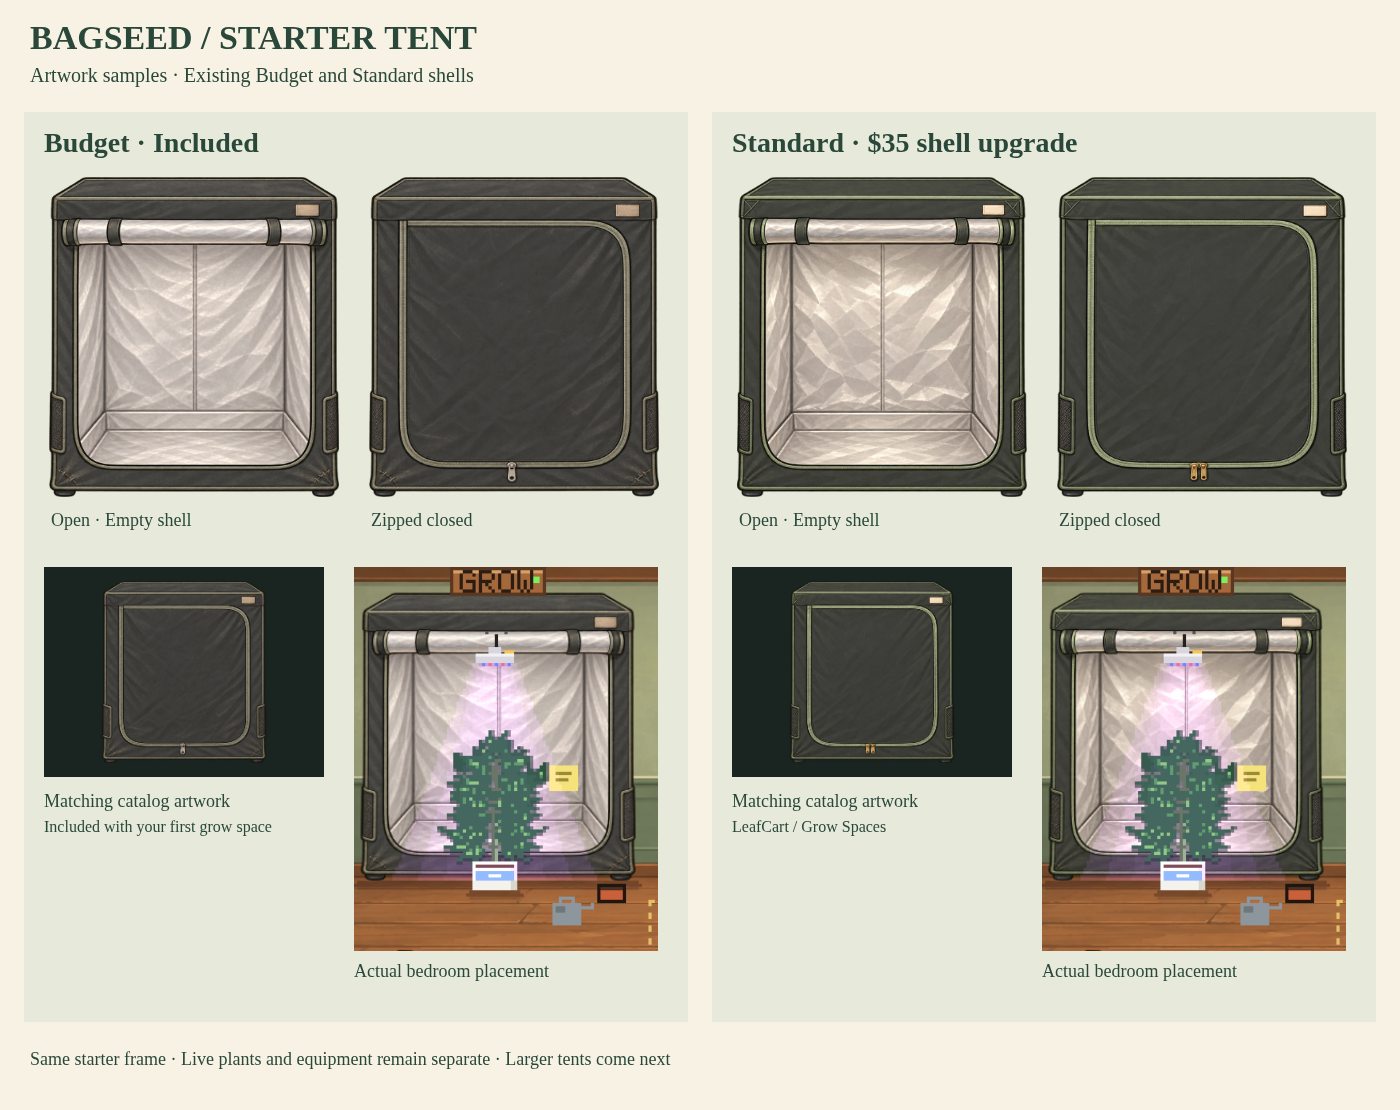
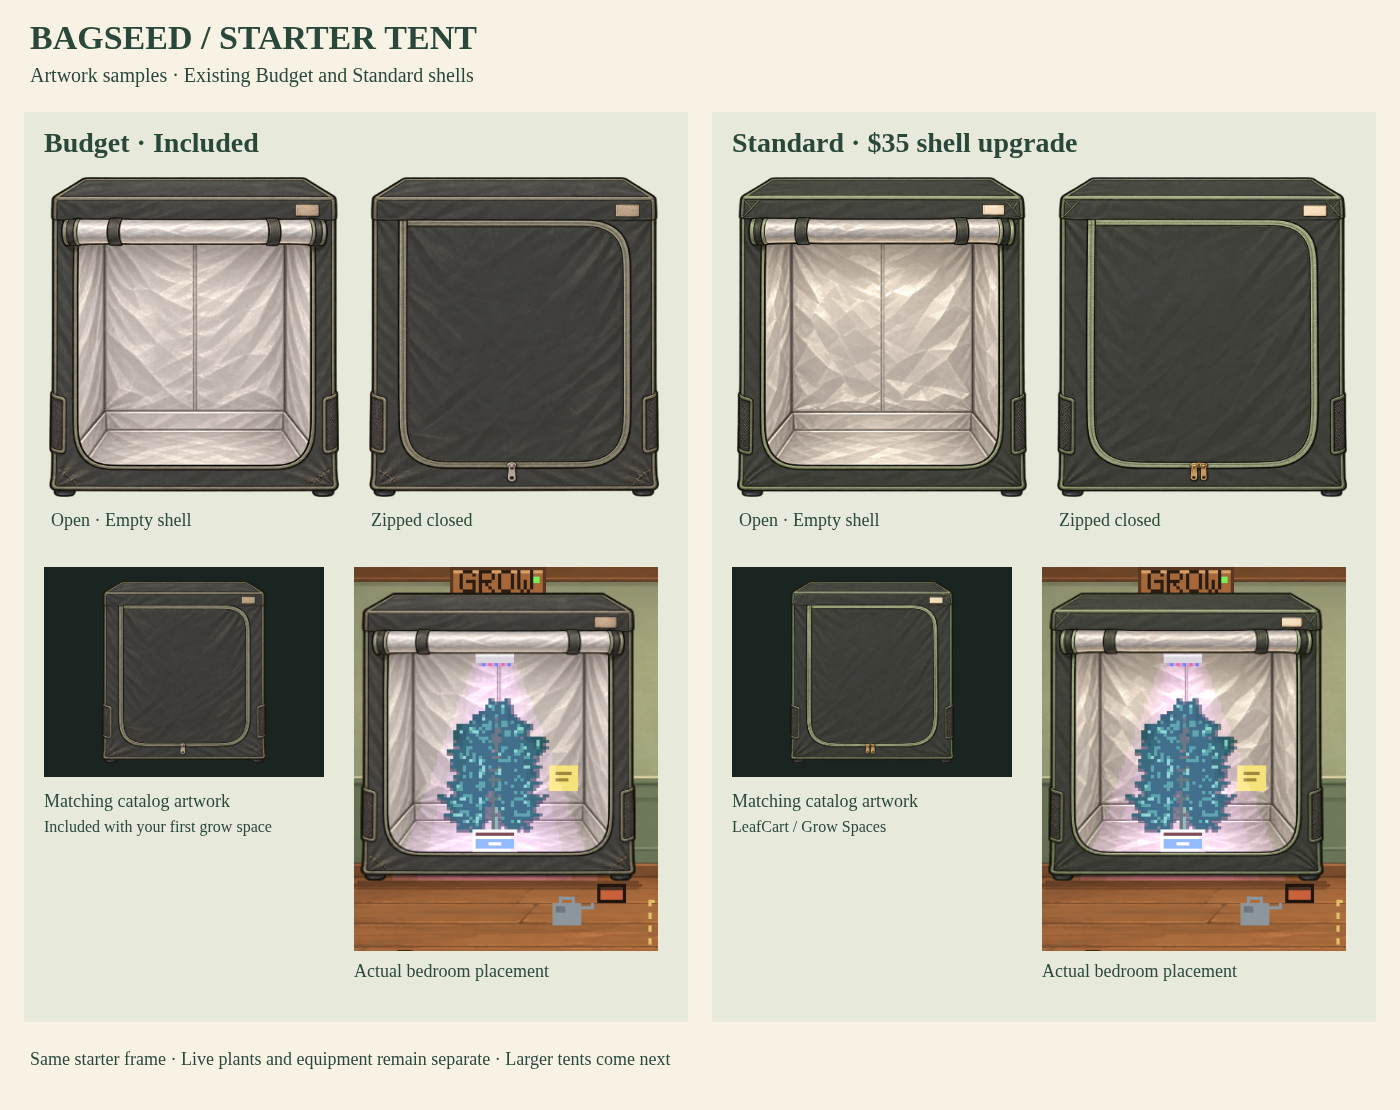
Layer starter tent roof and tray in front of live contents

Changed region(s): [[0.7679, 0.582, 0.9214, 0.827], [0.2764, 0.582, 0.43, 0.827]]

diff --git a/graphics/tents/starter/README.md b/graphics/tents/starter/README.md
@@ -4,6 +4,8 @@ Awaiting user approval. This batch covers only the existing starter pop-up frame
 
 The two original generated atlases are retained unchanged in assets/. Each contains an empty open shell and a zipped closed shell. Their checksums, technical crop bounds and original dimensions are recorded in sources/manifest.json. Charcoal canvas, quiet olive binding, warm silver lining and painterly outlines follow the approved bedroom and storage artwork. Budget has faded fabric, repaired corners and a simple silver pull; Standard has reinforced seams and brass pulls.
 
-Run `node tools/preview-starter-tent.cjs` for the sample board, actual bedroom views and desktop/mobile LeafCart Standard-shell card. The helper opens public/index.html and injects sample drawing functions into an isolated browser context. It preserves live plant and equipment drawing and verifies unchanged interaction targets, catalog and bedroom footprints. Production HTML, builders and original source game remain untouched.
+Run `node tools/preview-starter-tent.cjs` for the sample board, corrected layering closeup, actual bedroom views and desktop/mobile LeafCart Standard-shell card. The helper opens public/index.html and injects sample drawing functions into an isolated browser context. It preserves live plant and equipment drawing, equipment/shell interaction targets, catalog and bedroom footprints. Production HTML, builders and original source game remain untouched.
+
+The user's requested layering correction is implemented in the proposal: render the empty shell behind the contents, clip the contents to the rounded opening, then composite the original roof/rolled flap, side edging and front tray as a foreground mask. Move the slot drawing and its click target upward by 10 logical pixels so the pot rests behind the front tray. Logical plant/slot records and grow behavior stay unchanged. The room preview also composites the foreground over the native late light-beam pass. Production integration must account for ambient tint and that late pass rather than leaving beam effects over the frame. Bright pixel probes verify roof/light and tray/pot occlusion while keeping the visible light and pot bodies present across both shells, four light drawings and three pot drawings (24 combinations).
 
 These are still-image approval samples. Final integration must implement the existing zip transition with separate fabric/foreground layers, preserve shell wear/leak indicators, and cover startup readiness, store/package/inventory art, shell fitting, save reload and reduced motion. The proposal does not claim those production checks are complete.

diff --git a/review/starter-tent/STATUS.md b/review/starter-tent/STATUS.md
@@ -7,6 +7,8 @@ Requested: start the tent updates with the starter tent, match the established a
 - Open and zipped samples for both; shared matching catalog art and the actual Standard store card.
 - Production game remains unchanged. No push is authorized for these samples yet.
 
-The browser preview uses public/index.html. The isolated proposal preserves native interaction targets, bedroom footprints, shell catalog/prices and separate live plant/equipment rendering; the desktop/mobile store card checks passed without page errors. See report.json. Zip animation and production integration remain for the approved design.
+The browser preview uses public/index.html. The isolated proposal preserves equipment/shell interaction targets, bedroom footprints, shell catalog/prices and separate live plant/equipment rendering. At the user's request, the plant/pot and its click target move 10 logical pixels back into the tent. A rounded aperture clips contents; foreground roof, sides and tray occlude the light and pots. Pixel probes cover both shells with four light drawings and three pot drawings (24 combinations), checking visible contents and hidden overlap pixels. Desktop/mobile store checks passed without page errors. See report.json. Zip animation and production integration remain for the approved design.
 
 Preview board: approval-starter-tent.png. Store previews: store-standard.png and store-standard-phone.png. Full room pictures: bedroom-budget.png and bedroom-standard.png.
+
+Corrected layering closeup: corrected-layering.png. Awaiting approval of this revision; nothing is pushed.
